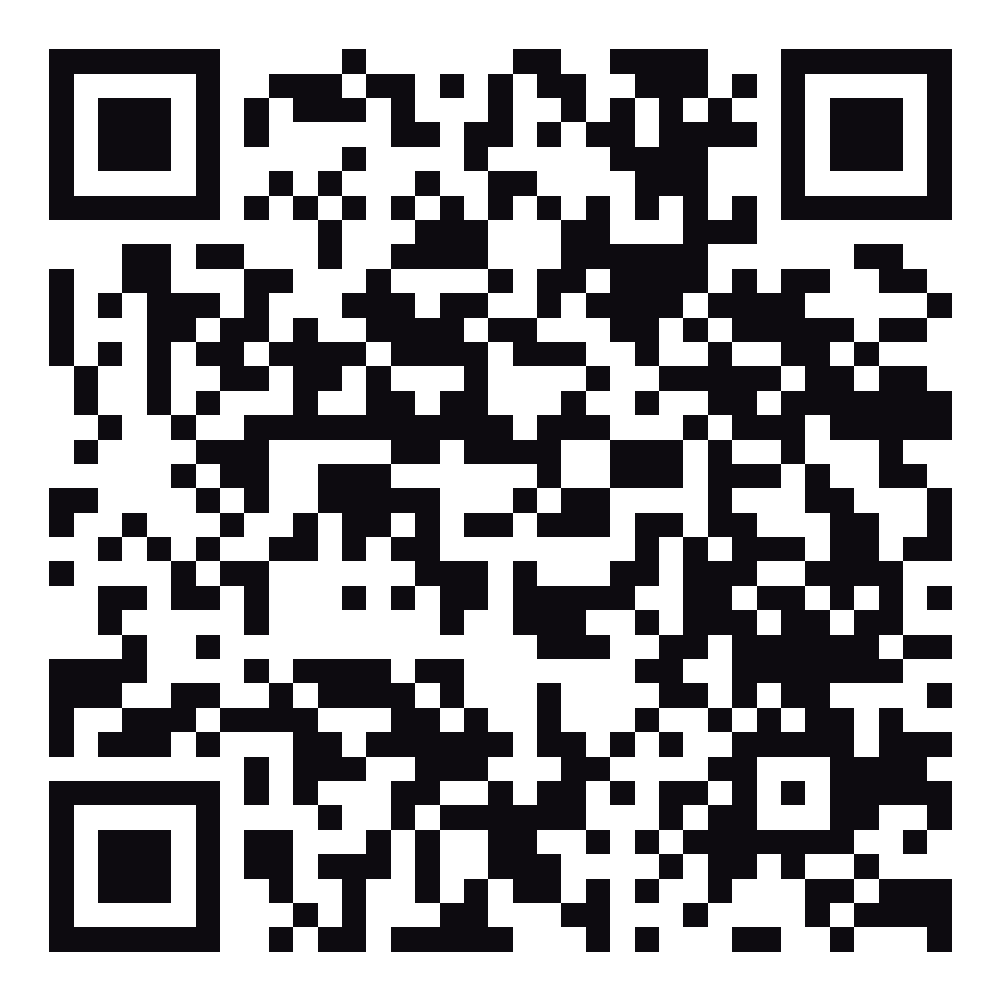
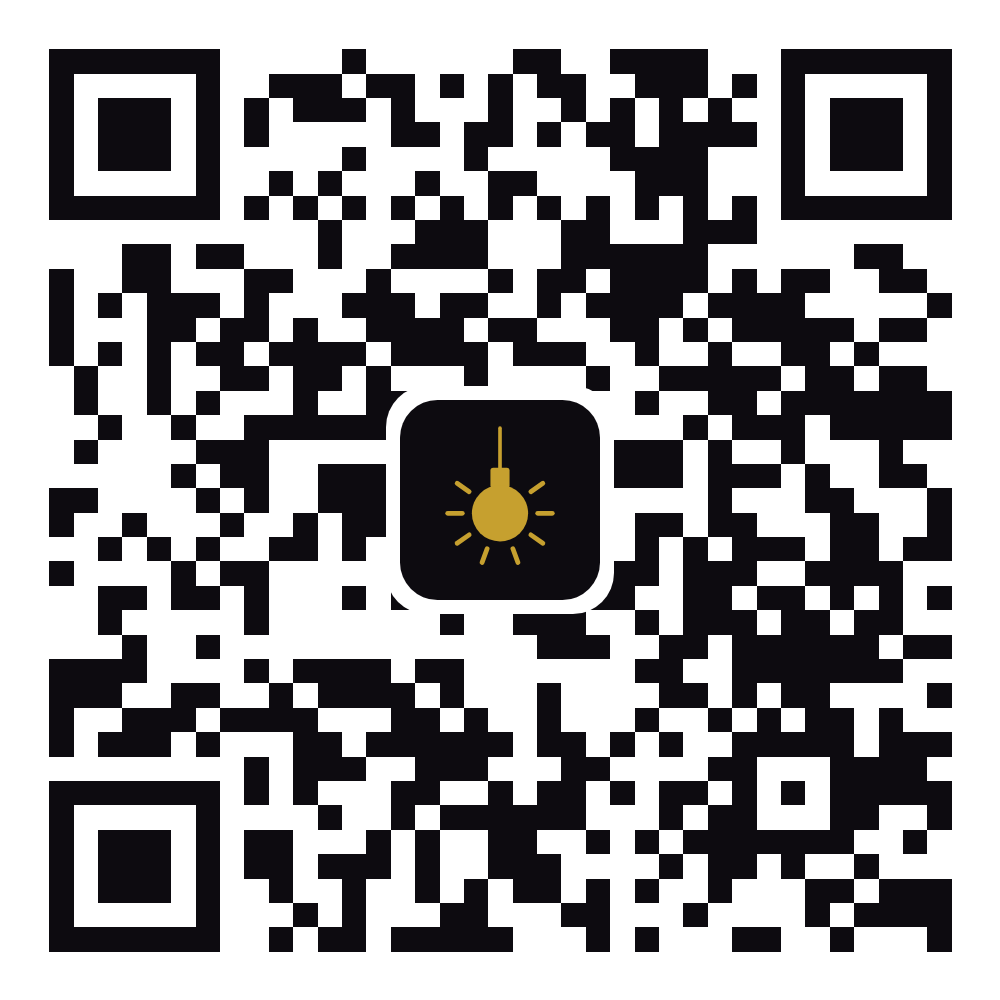
La bombita en el QR, y avisarle al cliente cuando su pedido esta listo
QR
  La bombita va en el centro de cada QR. El nivel de correccion H reconstruye
  hasta ~30% del codigo y esto tapa cerca del 4%, pero no se da por sentado:
  el script decodifica los 13 PNG al final y falla si alguno no se lee o
  apunta a otro lado. Un QR ilegible plastificado se descubre tarde.
  La tarjeta de /qr.html y la hoja impresa llevan el lockup completo arriba.
  npm run iconos genera una variante del logo para fondo claro: un filtro CSS
  dejaba la bombita de color barro.

Aviso de pedido listo
  Cuando la barra pasa un pedido a Listo, al cliente le aparece un cartel
  verde que late, la pestaña Mis pedidos se marca con una campana, vibra y
  suena un beep corto generado en el momento (sin archivos: el sotano tiene
  la senal que tiene). Tocar el cartel lleva a Mis pedidos.
  Donde el navegador lo permita sale ademas una notificacion del sistema, por
  el service worker, asi aparece con la pestana en segundo plano. El permiso
  se pide recien al mandar el primer pedido, que es cuando se entiende para
  que es.
  En la primera carga no avisa nada: si no, sonaria al abrir la app por algo
  que ya te entregaron.

e2e 35/35. Dos casos nuevos: que avise al pasar a Listo y que reabrir la app
con un pedido ya listo no vuelva a disparar el aviso.

Claude-Session: https://claude.ai/code/session_01C7DVbeDfnA9rJSgNKzbhLE

Changed region(s): [[0.372, 0.372, 0.62, 0.62], [0.558, 0.372, 0.589, 0.403]]

diff --git a/public/app.js b/public/app.js
@@ -38,6 +38,8 @@ const plata = (n) => BAR.moneda + Number(n || 0).toLocaleString('es-AR');
 // ---------- estado ----------
 const estado = {
   desdeCache: false,
+  vioPedidos: false,
+  hayListo: false,
   tomandoPedidos: true,
   uid: null,
   carta: [],
@@ -303,6 +305,7 @@ $('#btnEnviar').onclick = async () => {
     sessionStorage.setItem('sotano:mesa', mesa);
     pintarChipMesa();
     if (nombre) localStorage.setItem('sotano:nombre', nombre);
+    pedirPermisoAviso();
 
     // Los campos deben coincidir exactamente con pedidoValido() en firestore.rules.
     const pedido = {
@@ -344,7 +347,15 @@ function escucharMisPedidos() {
     orderBy('creadoEn', 'desc'),
   );
   onSnapshot(q, (snap) => {
+    const antes = new Map(estado.pedidos.map((p) => [p.id, p.estado]));
+    const primeraVuelta = !estado.vioPedidos;
+    estado.vioPedidos = true;
     estado.pedidos = snap.docs.map((d) => ({ id: d.id, ...d.data() }));
+    // El que recién pasó a listo. En la primera carga no se avisa nada:
+    // si no, al abrir la app suena por algo que ya te entregaron.
+    const reciénListos = primeraVuelta ? [] : estado.pedidos.filter(
+      (p) => p.estado === 'listo' && antes.get(p.id) && antes.get(p.id) !== 'listo');
+    if (reciénListos.length) avisarListo(reciénListos);
     pintarMisPedidos();
   }, (e) => {
     $('#misPedidos').innerHTML =
@@ -357,9 +368,59 @@ const ETIQUETA = {
   listo: 'Listo, va para tu mesa', entregado: 'Entregado', cancelado: 'Cancelado',
 };
 
+// ---------- aviso de "tu pedido está listo" ----------
+// Tres caminos, porque ninguno solo alcanza: el cartel y el badge para quien
+// tiene la app abierta, vibración y sonido para quien la tiene en el bolsillo,
+// y una notificación del sistema donde el navegador la permita.
+function avisarListo(pedidos) {
+  estado.hayListo = true;
+  const que = pedidos.flatMap((p) => (p.items || []).map((i) => `${i.cantidad}× ${i.nombre}`)).join(', ');
+  const mesa = pedidos[0]?.mesa;
+
+  if (navigator.vibrate) navigator.vibrate([120, 80, 120, 80, 220]);
+  sonar();
+
+  const texto = `${que}${mesa ? ` · mesa ${mesa}` : ''}`;
+  $('#textoListo').textContent = texto;
+  $('#avisoListo').classList.remove('oculto');
+
+  if ('Notification' in window && Notification.permission === 'granted') {
+    // Por el service worker: así aparece aunque la pestaña esté en segundo plano.
+    navigator.serviceWorker?.ready.then((reg) => reg.showNotification('Tu pedido está listo 🍸', {
+      body: `${texto}\nRetiralo en la barra.`,
+      icon: '/iconos/icono-192.png', badge: '/iconos/icono-192.png',
+      tag: 'sotano-listo', renotify: true, vibrate: [120, 80, 120],
+    })).catch(() => {});
+  }
+}
+
+// Un beep corto. Sin librerías ni archivos: el sótano tiene la señal que tiene.
+function sonar() {
+  try {
+    const ctx = new (window.AudioContext || window.webkitAudioContext)();
+    const o = ctx.createOscillator(); const g = ctx.createGain();
+    o.connect(g); g.connect(ctx.destination);
+    o.type = 'sine'; o.frequency.value = 880;
+    g.gain.setValueAtTime(0.0001, ctx.currentTime);
+    g.gain.exponentialRampToValueAtTime(0.25, ctx.currentTime + 0.02);
+    g.gain.exponentialRampToValueAtTime(0.0001, ctx.currentTime + 0.5);
+    o.start(); o.stop(ctx.currentTime + 0.52);
+  } catch { /* sin audio, quedan el cartel y la vibración */ }
+}
+
+// Se pide recién al mandar el pedido: antes de eso el cliente no tiene por qué
+// entender para qué le pedimos permiso de notificar.
+function pedirPermisoAviso() {
+  if (!('Notification' in window) || Notification.permission !== 'default') return;
+  Notification.requestPermission().catch(() => {});
+}
+
 function pintarMisPedidos() {
   const activos = estado.pedidos.filter((p) => !['entregado','cancelado'].includes(p.estado)).length;
-  $('#cuentaPedidos').textContent = activos ? `(${activos})` : '';
+  const listos = estado.pedidos.filter((p) => p.estado === 'listo').length;
+  $('#cuentaPedidos').textContent = listos ? '🔔' : (activos ? `(${activos})` : '');
+  $('#cuentaPedidos').classList.toggle('listo', listos > 0);
+  if (!listos) { estado.hayListo = false; $('#avisoListo').classList.add('oculto'); }
 
   if (!estado.pedidos.length) {
     $('#misPedidos').innerHTML = `<div class="vacio">Todavía no pediste nada.<br>
@@ -390,6 +451,7 @@ function irA(cual) {
   $('#vistaCarta').hidden = !carta;
   $('#vistaPedidos').hidden = carta;
 }
+$('#avisoListo').onclick = () => { irA('pedidos'); $('#avisoListo').classList.add('oculto'); };
 $('#tabCarta').onclick = () => irA('carta');
 $('#tabPedidos').onclick = () => irA('pedidos');
 

diff --git a/public/estilos.css b/public/estilos.css
@@ -352,3 +352,18 @@ body.es-gerente .ancho-full.solo-gerente-inline { display: block !important; wid
 .interruptor > div { flex: 1; }
 .interruptor span { display: block; font-size: .8rem; color: var(--suave); margin-top: .1rem; }
 .interruptor .btn { white-space: nowrap; }
+
+/* ---------- "tu pedido está listo" ---------- */
+.aviso.listo {
+  width: 100%; text-align: left; font: inherit; cursor: pointer;
+  border: 1px solid rgba(70,192,138,.5); background: rgba(70,192,138,.12);
+  color: var(--texto); animation: latir 1.6s ease-in-out infinite;
+}
+.aviso.listo b { color: var(--verde); }
+.aviso.listo small { color: var(--suave); }
+@keyframes latir {
+  0%, 100% { box-shadow: 0 0 0 0 rgba(70,192,138,.45); }
+  50%      { box-shadow: 0 0 0 10px rgba(70,192,138,0); }
+}
+@media (prefers-reduced-motion: reduce) { .aviso.listo { animation: none; } }
+#cuentaPedidos.listo { animation: latir 1.6s ease-in-out infinite; border-radius: 999px; }

diff --git a/public/qr.html b/public/qr.html
@@ -15,6 +15,7 @@
   /* El QR va sobre blanco siempre: sobre el fondo oscuro muchas cámaras no leen. */
   .lienzo { background: #fff; border-radius: 14px; padding: 1rem; text-align: center; }
   .lienzo img { width: 100%; max-width: 420px; height: auto; display: block; margin: 0 auto; }
+  .lienzo .logo { max-width: 240px; margin: 0 auto .7rem; }
   .lienzo .cual { color: #111; font-size: 1.9rem; font-weight: 800; letter-spacing: .05em;
                   margin-top: .5rem; }
   .lienzo .pie { color: #666; font-size: .9rem; margin-top: .15rem; }
@@ -41,6 +42,7 @@
 
   <section id="panel" hidden>
     <div class="lienzo">
+      <img class="logo" src="/iconos/logo-horizontal-claro.svg" alt="El Sótano" width="560" height="120">
       <img id="imgQr" alt="">
       <div class="cual" id="cual"></div>
       <div class="pie">Escaneá y pedí desde tu celular</div>

diff --git a/public/sw.js b/public/sw.js
@@ -1,7 +1,7 @@
 // Service worker de El Sótano.
 // El local es un sótano: la señal se corta. El cascarón de la app tiene que
 // abrir igual, y Firestore ya resuelve sus datos con su propio cache.
-const VERSION = 'sotano-7579967a9e54';
+const VERSION = 'sotano-d738063d7293';
 const ESENCIALES = [
   '/', '/index.html', '/bar.html', '/estilos.css', '/app.js', '/bar.js',
   '/config.js', '/manifest.webmanifest', '/vendor/firebase.js',

diff --git a/public/index.html b/public/index.html
@@ -34,6 +34,12 @@
     </div>
   </div>
 
+  <button class="aviso listo oculto" id="avisoListo" type="button">
+    <span>🍸</span>
+    <div><b>¡Tu pedido está listo!</b> Retiralo en la barra.<br>
+    <small id="textoListo"></small></div>
+  </button>
+
   <div class="aviso mal oculto" id="avisoCerrado">
     <span>🔒</span>
     <div><b>Por ahora no se toman pedidos.</b> Podés ver la carta igual.
